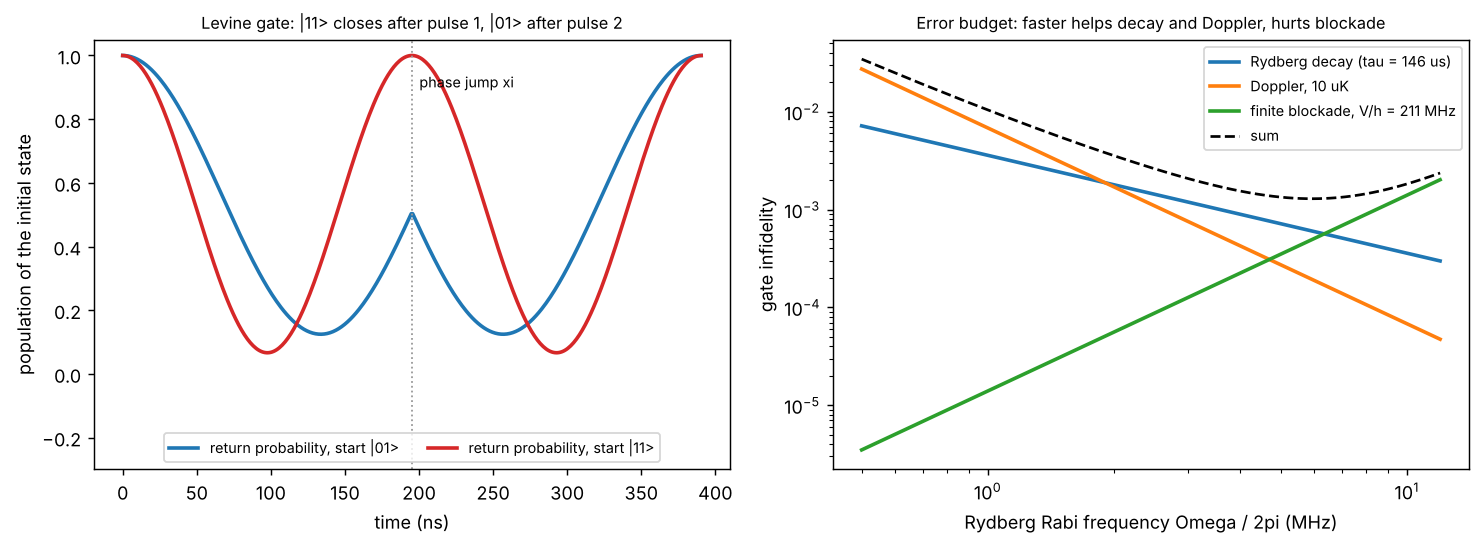
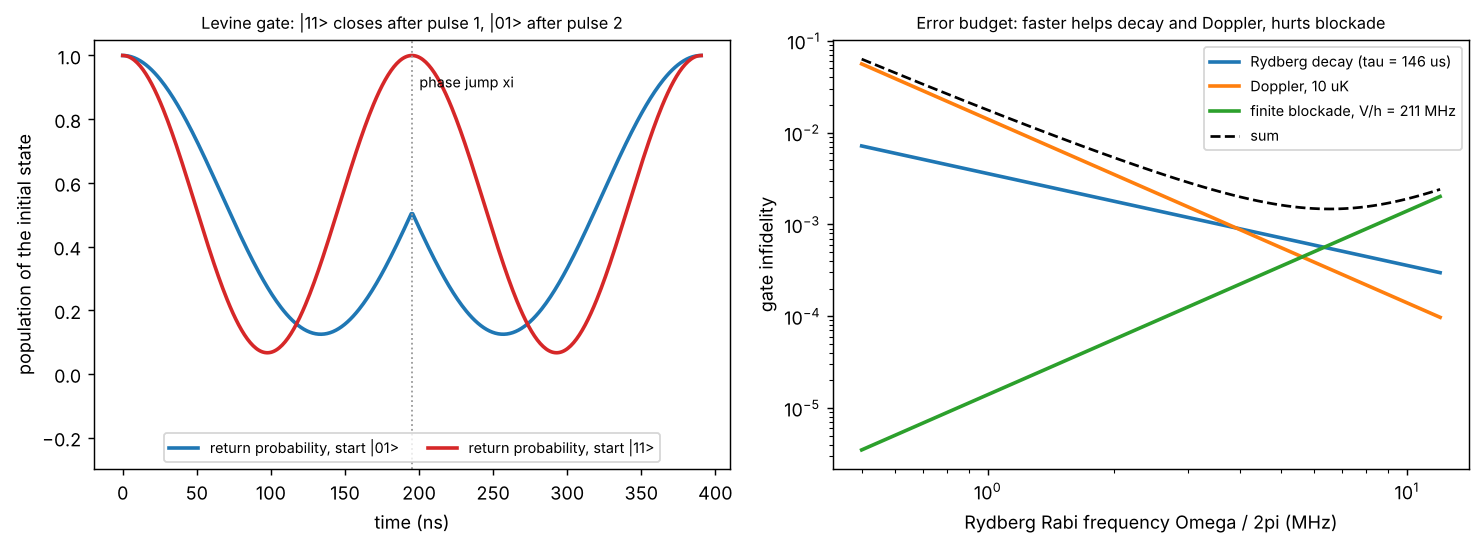
Fifth review pass: Doppler error with calibrated Z phases, chapter 10-11 fixes, review log
Lab 11 now holds the single-qubit Z phases at their calibrated values for
the random Doppler samples, which doubles the Doppler error to 1.1e-3; the
chapter 11 budget, figure caption and lab output are updated. Fix the
pair-excitation energy argument, the |W> leftover population and a rounding;
add the fifth-pass section to REVIEW.md.

diff --git a/hands-on/11-cz-gate/cz_gate.py b/hands-on/11-cz-gate/cz_gate.py
@@ -23,6 +23,9 @@ values Delta/Omega = 0.377, tau Omega = 4.29, xi = 3.90 are recovered.)
 Gate quality: the 4 x 4 block M of the propagator on the qubit subspace is
 compared with CZ up to single-qubit Z rotations using the average gate fidelity
 F = (|Tr(U^dag M)|^2 + Tr(M^dag M)) / 20  (Pedersen et al. 2007).
+The Z phases are read off M, except for the random Doppler detunings: there they
+are held at their ideal-gate values, because a correction calibrated once cannot
+follow a velocity that changes from shot to shot.
 
 Units: time in us, angular frequencies in rad/us.
 """
@@ -66,10 +69,10 @@ def levine_U(params, **kw):
     return expm(-1j * H_pair(xi, D, **kw) * tau) @ expm(-1j * H_pair(0.0, D, **kw) * tau)
 
 
-def fidelity_cz(U):
+def fidelity_cz(U, phases=None):
     M = U[np.ix_(comp, comp)]
-    th = np.angle(M[1, 1])                       # single-qubit Z phase from |01>
-    th2 = np.angle(M[2, 2])
+    # single-qubit Z phases: read off |01> and |10>, or held at given (calibrated) values
+    th, th2 = (np.angle(M[1, 1]), np.angle(M[2, 2])) if phases is None else phases
     ideal = np.diag([1, np.exp(1j * th), np.exp(1j * th2), -np.exp(1j * (th + th2))])
     return (abs(np.trace(ideal.conj().T @ M))**2 + np.real(np.trace(M.conj().T @ M))) / 20
 
@@ -122,10 +125,13 @@ inf_V = {V: 1 - fidelity_cz(levine_U(params, V=V)) for V in (V0, 2 * V0)}
 rng = np.random.default_rng(1)
 
 
+Z_PHASES = (np.angle(M[1, 1]), np.angle(M[2, 2]))   # calibrated once, on the ideal gate
+
+
 def doppler_infidelity(sigma_v, n=600):
     s = k_eff * sigma_v
     d = rng.standard_normal((n, 2)) * s
-    return 1 - np.mean([fidelity_cz(levine_U(params, V=V_INF, d1=a, d2=b)) for a, b in d])
+    return 1 - np.mean([fidelity_cz(levine_U(params, V=V_INF, d1=a, d2=b), Z_PHASES) for a, b in d])
 
 
 inf_dopp = doppler_infidelity(sigma_v_10uK)

diff --git a/tutorial/11-rydberg-gates.md b/tutorial/11-rydberg-gates.md
@@ -2,7 +2,7 @@
 
 > **Study companion:** [what to run and chapter checkpoints](learning-path.md) · [notation and reference numbers](00-notation.md) · [paper map](paper-map.md)
 
-Chapter 10 showed that two nearby atoms cannot both be excited to a Rydberg state. Here that rule becomes a **controlled-Z (CZ) gate** between hyperfine qubits. The mechanism rests on one fact: a state that goes to $|r\rangle$ and back in a full $2\pi$ rotation returns with a minus sign, and the blockade decides which states may make the trip. We start with the addressed **$\pi$-$2\pi$-$\pi$ protocol** of Jaksch et al., move on to the **global two-pulse gate** of Levine et al., on which today's parallel gates build, and then estimate what limits the fidelity. [Lab 11](../hands-on/11-cz-gate/) reproduces the published gate parameters and checks how each error scales.
+Chapter 10 showed that two nearby atoms cannot both be excited to a Rydberg state. Here that rule becomes a **controlled-Z (CZ) gate** between hyperfine qubits. It works because a state that goes to $|r\rangle$ and back in a full $2\pi$ rotation returns with a minus sign, and the blockade decides which states may make the trip. We start with the addressed **$\pi$-$2\pi$-$\pi$ protocol** of Jaksch et al., move on to the **global two-pulse gate** of Levine et al., on which today's parallel gates build, and then estimate what limits the fidelity. [Lab 11](../hands-on/11-cz-gate/) reproduces the published gate parameters and checks how each error scales.
 
 > **Conventions.** Qubit states $|0\rangle=|F{=}1,m_F{=}0\rangle$ and $|1\rangle=|F{=}2,m_F{=}0\rangle$; only $|1\rangle$ is coupled to $|r\rangle$. The single-atom Hamiltonian is $\frac{\hbar\Omega}{2}(e^{-i\xi}|r\rangle\langle1|+{\rm h.c.})-\hbar\Delta|r\rangle\langle r|$ with laser phase $\xi$, as in the [notation page](00-notation.md).
 
@@ -75,19 +75,19 @@ To see why, treat a decay as loss: input $i$ keeps amplitude $e^{-\Gamma T_R^i/2
 
 ### 2. Doppler dephasing
 
-A moving atom sees the two-photon Rydberg light shifted by $k_{\rm eff}v$ (Chapter 10). Over a gate lasting a few hundred nanoseconds the velocity is effectively constant, so this is a random static detuning, rms $k_{\rm eff}\sigma_v=2\pi\times43$ kHz at $10\ \mu$K. A detuning error $\delta$ causes an infidelity of order $(\delta/\Omega)^2$: the lab finds $5.6\times10^{-4}$ at $10\ \mu$K, scaling as $\sigma_v^2\propto T$. Colder atoms and faster gates reduce it. The usual counter-propagating 420/1013 nm arrangement already removes most of it (co-propagating beams would add the wavevectors, multiplying the Doppler detuning by 2.4 and the infidelity by about six), and three-photon schemes whose wavevectors cancel can remove it entirely.
+A moving atom sees the two-photon Rydberg light shifted by $k_{\rm eff}v$ (Chapter 10). Over a gate lasting a few hundred nanoseconds the velocity is effectively constant, so this is a random static detuning, rms $k_{\rm eff}\sigma_v=2\pi\times43$ kHz at $10\ \mu$K. A detuning error $\delta$ causes an infidelity of order $(\delta/\Omega)^2$: the lab finds $1.1\times10^{-3}$ at $10\ \mu$K, scaling as $\sigma_v^2\propto T$. For this estimate the single-qubit $Z$ phases are held at their ideal-gate values instead of being read off each run, because a correction calibrated once cannot follow a velocity that changes from shot to shot. Colder atoms and faster gates reduce it. The usual counter-propagating 420/1013 nm arrangement already removes most of it (co-propagating beams would add the wavevectors, multiplying the Doppler detuning by 2.4 and the infidelity by about six), and three-photon schemes whose wavevectors cancel can remove it entirely.
 
 ### 3. Finite blockade
 
-With $V$ finite, $|W\rangle$ is coupled to $|rr\rangle$ with matrix element $\hbar\Omega/\sqrt2$ across an energy gap of about $V$. In second order this lowers the energy of $|W\rangle$ by $(\hbar\Omega)^2/2V$, so $|11\rangle$ collects an extra phase $\delta\phi\approx\hbar\Omega^2T_R^{11}/2V$, which is $2\hbar\Omega/V$ for the Levine gate ($\Omega T_R^{11}=4.0$). A phase error $\delta\phi$ on one of the four inputs gives $1-F=3\,\delta\phi^2/20=0.6\,(\hbar\Omega/V)^2$, or $1.7\times10^{-4}$ at $V/h=211$ MHz (two 70S atoms 4 $\mu$m apart), as the lab finds; the population that leaks into $|rr\rangle$ is only $10^{-5}$. The error falls fourfold when $V$ doubles and grows with $\Omega$. Since it is almost all a fixed phase, re-optimising $\Delta$, $\tau$ and $\xi$ for the actual $V$ removes it (to about $10^{-8}$ here). What cannot be calibrated away is the shot-to-shot change in $V$ as the atoms' separation fluctuates.
+With $V$ finite, $|W\rangle$ is coupled to $|rr\rangle$ with matrix element $\hbar\Omega/\sqrt2$ across an energy gap of about $V$. In second order this lowers the energy of $|W\rangle$ by $(\hbar\Omega)^2/2V$, so $|11\rangle$ collects an extra phase $\delta\phi\approx\hbar\Omega^2T_R^{11}/2V$, which is $2\hbar\Omega/V$ for the Levine gate ($\Omega T_R^{11}=4.0$). A phase error $\delta\phi$ on one of the four inputs gives $1-F=3\,\delta\phi^2/20=0.6\,(\hbar\Omega/V)^2$, or $1.7\times10^{-4}$ at $V/h=211$ MHz (two 70S atoms 4 $\mu$m apart), as the lab finds; the population left outside the qubit states at the end of the gate is only $10^{-5}$. The error falls fourfold when $V$ doubles and grows with $\Omega$. Since it is almost all a fixed phase, re-optimising $\Delta$, $\tau$ and $\xi$ for the actual $V$ removes it (to about $10^{-8}$ here). What cannot be calibrated away is the shot-to-shot change in $V$ as the atoms' separation fluctuates.
 
-![Left: population of the initial state during the Levine gate; the 11 state returns to 1 at the end of the first pulse, the 01 state only at the end of the second pulse after the phase jump. Right: gate infidelity versus Rydberg Rabi frequency on log axes for Rydberg decay (falling as one over Omega), Doppler dephasing at 10 microkelvin (falling as one over Omega squared), finite blockade at 211 MHz (rising as Omega squared), and their sum, which has a minimum of about 1.3 times ten to the minus three near 6 MHz](../hands-on/11-cz-gate/figures/cz_gate.png)
+![Left: population of the initial state during the Levine gate; the 11 state returns to 1 at the end of the first pulse, the 01 state only at the end of the second pulse after the phase jump. Right: gate infidelity versus Rydberg Rabi frequency on log axes for Rydberg decay (falling as one over Omega), Doppler dephasing at 10 microkelvin (falling as one over Omega squared), finite blockade at 211 MHz (rising as Omega squared), and their sum, which has a minimum of about 1.5 times ten to the minus three near 6.5 MHz](../hands-on/11-cz-gate/figures/cz_gate.png)
 
 *Lab 11. Left: the two pulses of the Levine gate. Right: the three intrinsic errors scale differently with $\Omega$, so there is an optimal Rabi frequency. Real experiments add laser and control errors on top.*
 
 ### 4. Technical errors
 
-The intrinsic budget above totals about $1.7\times10^{-3}$ (worked example below). In experiments other errors usually dominate:
+The intrinsic budget above totals about $2.3\times10^{-3}$ (worked example below). In experiments other errors usually dominate:
 
 - **Laser phase noise.** The Rydberg lasers' phase directly enters the gate; noise at frequencies near $\Omega$ is especially harmful. Experiments lock their lasers to high-finesse cavities and filter out the "servo bumps" of the lock.
 - **Intensity noise and inhomogeneity.** A 1% error in $\Omega$ shifts the pulse areas; across a large array the beams must be uniform, and pulse shapes designed to be insensitive to small amplitude errors help.
@@ -104,19 +104,19 @@ The intrinsic budget above totals about $1.7\times10^{-3}$ (worked example below
 | gate duration | $8.58/\Omega=$ **390 ns** |
 | mean time in $\vert r\rangle$ | **0.150 $\mu$s** |
 | decay error ($\tau_r=146\ \mu$s) | **$1.0\times10^{-3}$** |
-| Doppler error (10 $\mu$K) | **$5.6\times10^{-4}$** |
+| Doppler error (10 $\mu$K) | **$1.1\times10^{-3}$** |
 | finite-blockade error | **$1.7\times10^{-4}$** |
-| intrinsic total | **$\approx1.7\times10^{-3}$** ($F\approx99.8\%$) |
+| intrinsic total | **$\approx2.3\times10^{-3}$** ($F\approx99.8\%$) |
 
 **Step 1: duration.** $2\times4.29/(2\pi\times3.5\ {\rm MHz})=8.58/(22.0\ \mu{\rm s}^{-1})=0.390\ \mu$s.
 
-**Step 2: decay.** $0.150\ \mu{\rm s}/146\ \mu{\rm s}=1.0\times10^{-3}$. This is the largest intrinsic term.
+**Step 2: decay.** $0.150\ \mu{\rm s}/146\ \mu{\rm s}=1.0\times10^{-3}$.
 
-**Step 3: Doppler.** $k_{\rm eff}\sigma_v/\Omega=2\pi\times43\ {\rm kHz}/(2\pi\times3.5\ {\rm MHz})=0.012$; the infidelity is a few times $0.012^2$, and the lab gives $5.6\times10^{-4}$.
+**Step 3: Doppler.** $k_{\rm eff}\sigma_v/\Omega=2\pi\times43\ {\rm kHz}/(2\pi\times3.5\ {\rm MHz})=0.012$; the infidelity is several times $0.012^2$, and the lab gives $1.1\times10^{-3}$, about the same as the decay term.
 
-**Step 4: blockade.** $\hbar\Omega/V=3.5/211=0.0166$, so the extra phase on $|11\rangle$ is $2\hbar\Omega/V=0.033$ rad and the infidelity $3\times0.033^2/20=1.7\times10^{-4}$, as the lab gives.
+**Step 4: blockade.** $\hbar\Omega/V=3.5/211=0.0166$, so the extra phase on $|11\rangle$ is $2\hbar\Omega/V=0.0332$ rad and the infidelity $3\times0.0332^2/20=1.65\times10^{-4}$, close to the lab's $1.7\times10^{-4}$.
 
-**Step 5: verdict.** About $1.7\times10^{-3}$ from decay, motion and finite interaction, before laser noise and intermediate-state scattering. The blockade term is nearly all a fixed phase that recalibrating the pulse absorbs, so the floor that cannot be calibrated away is closer to $1.6\times10^{-3}$, set by decay and Doppler. The 2023 demonstration reached 99.5%, within a factor of about three of this illustrative floor. Cryogenic cells, higher Rydberg states, faster error-tolerant pulses and colder atoms are the ways groups are trying to lower the floor itself.
+**Step 5: verdict.** About $2.3\times10^{-3}$ from decay, motion and finite interaction, before laser noise and intermediate-state scattering. The blockade term is nearly all a fixed phase that recalibrating the pulse absorbs, so the floor that cannot be calibrated away is closer to $2.2\times10^{-3}$, set by decay and Doppler. The 2023 demonstration reached 99.5%, within a factor of about two of this illustrative floor. Cryogenic cells, higher Rydberg states, faster error-tolerant pulses and colder atoms are the ways groups are trying to lower the floor itself.
 
 ## Run it
 
@@ -135,7 +135,7 @@ The intrinsic budget above totals about $1.7\times10^{-3}$ (worked example below
 - A $2\pi$ excursion to $|r\rangle$ multiplies a state by $-1$; the blockade makes that phase conditional.
 - The $\pi$-$2\pi$-$\pi$ gate gives ${\rm diag}(1,-1,-1,-1)$ = CZ up to local $Z$, but needs individual addressing.
 - The global Levine gate uses two identical pulses with a phase jump: $\Delta/\Omega=0.377$, $\tau\Omega=4.29$, $\xi=3.90$, total $8.58/\Omega$; time-optimal single pulses take about $7.6/\Omega$.
-- Intrinsic errors: decay $\Gamma\overline{T_R}\propto1/\Omega$, Doppler $\propto T/\Omega^2$, finite blockade $\propto(\Omega/V)^2$ (mostly a phase that calibration removes). For Rb 70S at 3.5 MHz they total about $1.7\times10^{-3}$.
+- Intrinsic errors: decay $\Gamma\overline{T_R}\propto1/\Omega$, Doppler $\propto T/\Omega^2$, finite blockade $\propto(\Omega/V)^2$ (mostly a phase that calibration removes). For Rb 70S at 3.5 MHz they total about $2.3\times10^{-3}$.
 - Laser phase noise, intensity errors and intermediate-state scattering add to this; fidelities of 99.5% have been demonstrated in parallel on many pairs.
 
 ## Go deeper

diff --git a/REVIEW.md b/REVIEW.md
@@ -1,3 +1,32 @@
+# Independent review, 2 November 2026 (fifth pass: audit of the fourth pass)
+
+Rewriting about 160 passages can introduce new mistakes, so five fresh
+reviewers compared every hunk of the fourth pass with the text it replaced and
+re-derived every equation in their slice again. Each finding was re-checked
+before it was applied; the lab 11 correction was confirmed with a separate
+script and a different random seed.
+
+## Corrections
+
+| Where | Finding | Correction |
+|---|---|---|
+| Lab 11, Ch 11 | the Doppler error re-fitted the single-qubit $Z$ phases for every random velocity, which cancels each shot's random phase error (pre-existing) | phases held at their calibrated ideal-gate values: Doppler error $1.1\times10^{-3}$ (was $5.6\times10^{-4}$), intrinsic total $2.3\times10^{-3}$, floor $2.2\times10^{-3}$, figure minimum $1.5\times10^{-3}$ near 6.5 MHz |
+| Ch 02 | fourth-pass rewrite said spin-orbit coupling splits "each level" | only $5p$ is split here; the $5s$ ground state has no fine structure |
+| Ch 03 | fourth-pass rewrite said pure $\sigma^+$ driving still leaks | pure $\sigma^+$ on $\vert2,2\rangle\to\vert3',3'\rangle$ is closed; leaks come from impure polarization |
+| Ch 05 | fourth-pass caption gave $\vert\delta\vert/k$ (2.4 and 4.7 m/s) as the force peaks | peaks at 2.8 and 4.8 m/s |
+| Ch 07 | "only the lowest few levels are occupied" (fourth pass) | true radially; axially $\bar n=8.3$ puts 32% of atoms in $n\ge10$ |
+| Ch 10 | "exciting both atoms of a pair costs $V-\hbar\Delta$" (fourth pass) | exciting the *second* atom costs $V$ and gains $\hbar\Delta$ |
+| Ch 11 | "population that leaks into $\vert rr\rangle$ is $10^{-5}$"; $3\times0.033^2/20$ rounded to $1.7\times10^{-4}$ (fourth pass) | the $10^{-5}$ is left in $\vert W\rangle$; $3\times0.0332^2/20=1.65\times10^{-4}$ |
+| Ch 04 | takeaway $\hbar\gamma_p=(\Gamma/\vert\delta\vert)U$ (pre-existing) | $\vert U\vert$ |
+| Ch 01, 07, 09 | "seconds with spin echo"; a cross-reference to trap modulation that Chapter 08 does not contain; three ambiguous sentences | trains of echo pulses; reworded |
+| learning path, index | checkpoint 4 said every photon flips the qubit; Monte Carlo error bar rounded; "all the numbers are for Rb-87" | about a third are Raman photons; $0.411\pm0.013$; worked examples use Rb-87, comparisons use other atoms |
+
+## Re-run
+
+`python hands-on/run_labs.py --all --check` passes 13/13 (lab 11 prints the new
+Doppler numbers), regenerating the figures changes only the lab 11 figure, and
+`python tools/check_repo.py` reports 0 errors.
+
 # Independent review, 2 November 2026 (fourth pass: derivations and wording)
 
 This pass had two aims: check every equation and every step of every

diff --git a/tutorial/10-rydberg.md b/tutorial/10-rydberg.md
@@ -85,7 +85,7 @@ This is an Ising-type spin model in a transverse field, with the "spin up" state
 **Ordered phases in a chain.** Consider atoms on a line with spacing $a$ such that nearest neighbours are blockaded ($V(a)\gg\hbar\Omega$) but next-nearest neighbours are not ($V(2a)=V(a)/64\ll\hbar\Omega$). With $\Omega\to0$ and $V(2a)$ neglected, the energy of a configuration is $-\hbar\Delta$ per excitation plus the interactions:
 
 - For $\Delta<0$, every excitation costs energy, so the ground state has all atoms in $|g\rangle$.
-- For $0<\Delta<V(a)/\hbar$, every excitation lowers the energy, but exciting both atoms of a neighbouring pair costs $V(a)-\hbar\Delta>0$ more than it gains. The ground state therefore packs in as many excitations as the blockade allows, $|r\,g\,r\,g\cdots\rangle$. This crystal repeats only every two sites, so it breaks the chain's translation symmetry. In a long chain the two patterns $r\,g\,r\,g\ldots$ and $g\,r\,g\,r\ldots$ have the same energy, hence the name **$Z_2$ phase**; in an odd chain with open ends, $r$ on both ends makes one pattern the unique ground state. (Adding an excitation between two excited atoms would cost $2V(a)-\hbar\Delta$, so the condition $\Delta<V(a)/\hbar$ is sufficient but not tight.)
+- For $0<\Delta<V(a)/\hbar$, every excitation lowers the energy, but exciting the second atom of a neighbouring pair costs $V(a)$ and gains only $\hbar\Delta$, a net cost of $V(a)-\hbar\Delta>0$. The ground state therefore packs in as many excitations as the blockade allows, $|r\,g\,r\,g\cdots\rangle$. This crystal repeats only every two sites, so it breaks the chain's translation symmetry. In a long chain the two patterns $r\,g\,r\,g\ldots$ and $g\,r\,g\,r\ldots$ have the same energy, hence the name **$Z_2$ phase**; in an odd chain with open ends, $r$ on both ends makes one pattern the unique ground state. (Adding an excitation between two excited atoms would cost $2V(a)-\hbar\Delta$, so the condition $\Delta<V(a)/\hbar$ is sufficient but not tight.)
 
 Between the two lies a quantum phase transition; with $\Omega>0$, quantum fluctuations shift it to positive $\Delta$ (in lab 13, near $\Delta/2\pi\approx1.4$ MHz, where the gap is smallest). A chain of $N$ atoms has only $F(N+2)$ configurations without neighbouring excitations (a Fibonacci number, with $F(1)=F(2)=1$: 89 for nine atoms, instead of $2^9=512$). In the limit of perfect nearest-neighbour blockade and $\Delta=0$ the Hamiltonian becomes $H/\hbar=\frac{\Omega}{2}\sum_iP_{i-1}\sigma^x_iP_{i+1}$ with $P=|g\rangle\langle g|$: an atom can flip only if both of its neighbours are in $|g\rangle$. That form is why the blockaded chain is called the "PXP model".
 

diff --git a/hands-on/11-cz-gate/README.md b/hands-on/11-cz-gate/README.md
@@ -48,7 +48,10 @@ the code. The independent physics check is the time $|11\rangle$ spends in
 $|r\rangle$: one full detuned cycle of a two-level system with coupling
 $\sqrt2\Omega$ per pulse gives exactly $2\tau\,\Omega^2/(2\Omega^2+\Delta^2)$. Doppler shifts are Gaussian random detunings
 with rms $k_{\rm eff}\sigma_v$, held constant during each gate and averaged over
-600 samples; the two temperatures use independent random draws.
+600 samples; the two temperatures use independent random draws. For these the
+$Z$ phases are not read off each sample but held at their ideal-gate values
+(`Z_PHASES`): in an experiment the corrections are calibrated once and cannot
+follow a velocity that changes from shot to shot.
 
 The optimiser is started near the published values. Other starting points can
 converge to equivalent solutions, for example the mirror image $\Delta\to-\Delta$,
@@ -63,7 +66,7 @@ shortest with $\Delta>0$.
        time in |r> (us): 00 0.000, 01 0.208, 10 0.208, 11 0.182
     decay (tau = 146.2 us): infidelity 1.022e-03; prediction mean(Gamma T_R) = 1.022e-03
     finite blockade: infidelity at V = 211 MHz: 1.71e-04; at 2V: 4.26e-05 (ratio 4.03)
-    Doppler, 10 uK: infidelity 5.56e-04; at T/4 (sigma_v/2): 1.45e-04 (ratio 3.84)
+    Doppler, 10 uK: infidelity 1.14e-03; at T/4 (sigma_v/2): 2.84e-04 (ratio 4.02)
     Jaksch pi-2pi-pi phases / pi for |00>,|01>,|10>,|11>: [ 0.        1.        1.       -0.999999]
 
 (Values within about $10^{-9}$ of 1, and the sign of the $\pm\pi$ phase, are numerical noise from
